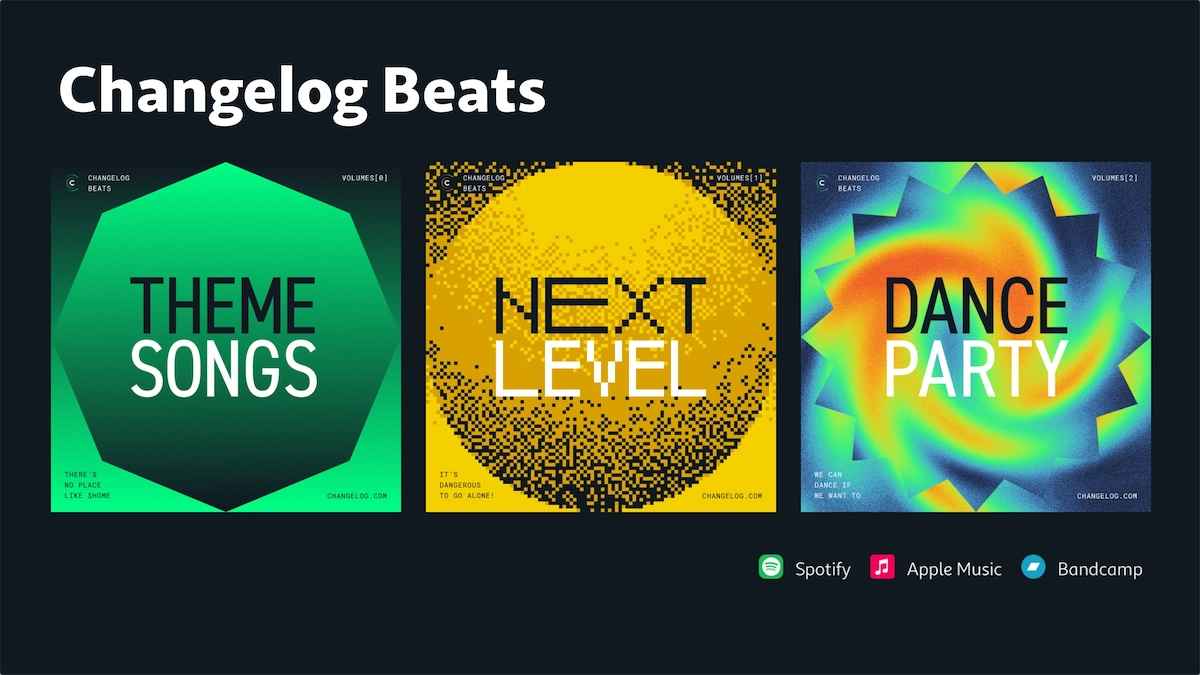
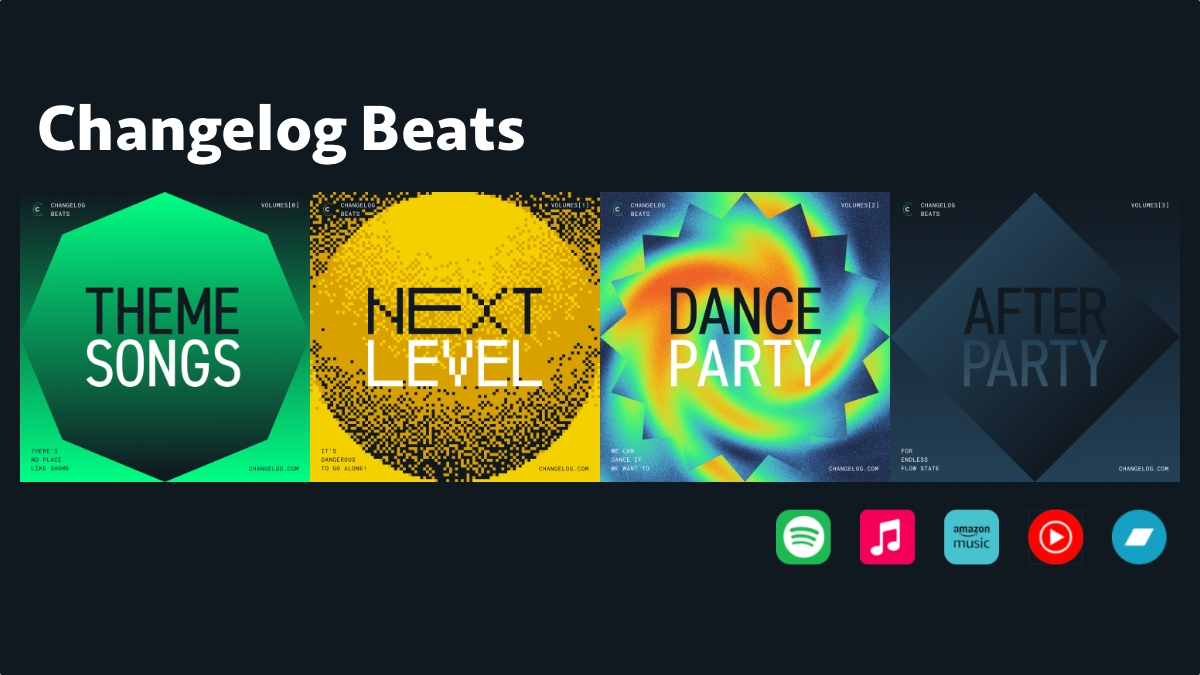
Link up Beats on Merch

diff --git a/assets/app/layout/show.scss b/assets/app/layout/show.scss
@@ -234,7 +234,7 @@
 
         &-item {
           height: 30px;
-          margin: 0 8px 12px;
+          margin: 0 8px;
           padding: 4px 0 0 30px;
           background-size: 30px 30px;
           background-repeat: no-repeat;
@@ -274,6 +274,9 @@
           }
           &--bandcamp {
             background-image: url("../images/icons/podcast_icon-bandcamp.png");
+          }
+          &--direct {
+            background-image: url("../images/icons/podcast_icon-direct.png");
           }
           &--overcast {
             background-image: url("../images/icons/podcast_icon-overcast.png");
